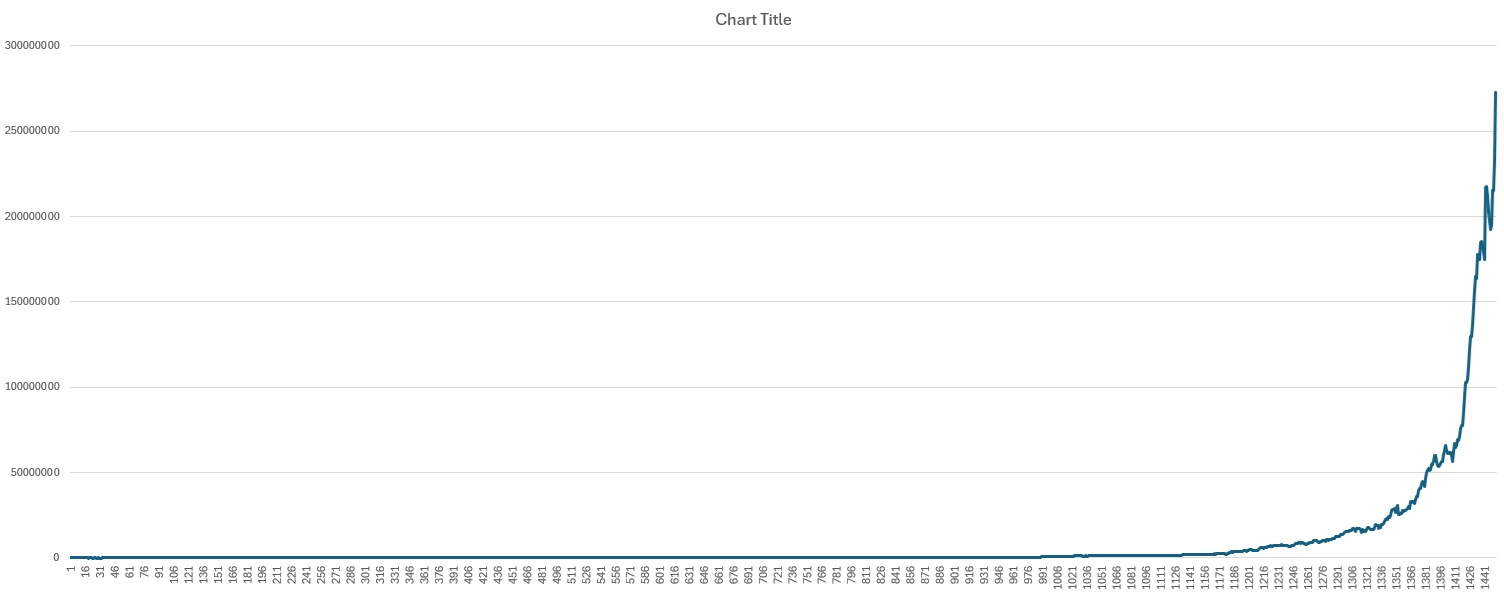
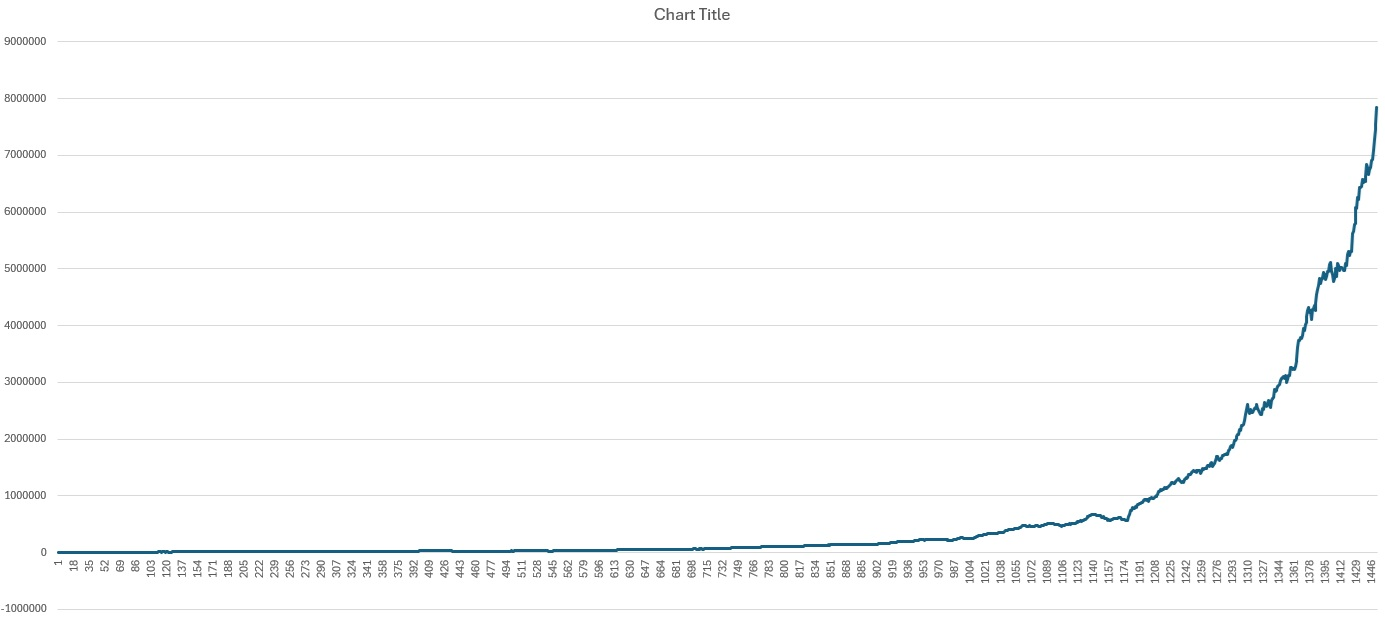
diversified trading for demo test

diff --git a/README.md b/README.md
@@ -88,7 +88,7 @@ The brain learns to trade stocks from historical price and volume data. Each sto
 **Using high error correction threshold to be able to quickly stabilize the patterns and get higher returns.
 
 ```bash
-node apps/stocks/jobs/test.js --context-length 3 --columns 20 --transaction-cost 0.02
+node apps/stocks/jobs/test.js --context-length 3 --columns 20 --transaction-cost 0.02 --max-positions 10
 ```
 
 **Expected output:**
@@ -97,20 +97,20 @@ Final Training Results (1 episodes):
 ============================================================
 📈 Overall Performance:
    Starting Capital: $15000.00
-   Total Net Profit: $3569252.21
-   Average per Episode: $3569252.21
-   Average ROI: +23795.01%
-   Average Per-Frame ROI: +0.377344%
-   Average Sharpe Ratio: 1.19
-   Total Transaction Cost: $180929.11 (0.02% per trade)
-   Total Trades: 2831
-   Average Trades per Episode: 2831.0
+   Total Net Profit: $7847124.83
+   Average per Episode: $7847124.83
+   Average ROI: +52314.17%
+   Average Per-Frame ROI: +0.431586%
+   Average Sharpe Ratio: 3.22
+   Total Transaction Cost: $259924.73 (0.02% per trade)
+   Total Trades: 24001
+   Average Trades per Episode: 24001.0
 
 💰 Net Profit & ROI by Episode:
-   Episode 1: $3569252.21 | ROI: +23795.01%, +0.377344%/frame, Sharpe: 1.19 (2831 trades)
+   Episode 1: $7847124.83 | ROI: +52314.17%, +0.431586%/frame, Sharpe: 3.22 (24001 trades)
 
 📊 Base Level Accuracy by Episode:
-   Episode 1: 50.38%
+   Episode 1: 50.42%
 ```
 
 The brain achieves ~50% base-level prediction accuracy on price movements (which is expected — markets are noisy), but the **reward-weighted action selection** turns that into profitable trading by learning which contexts produce better outcomes.
